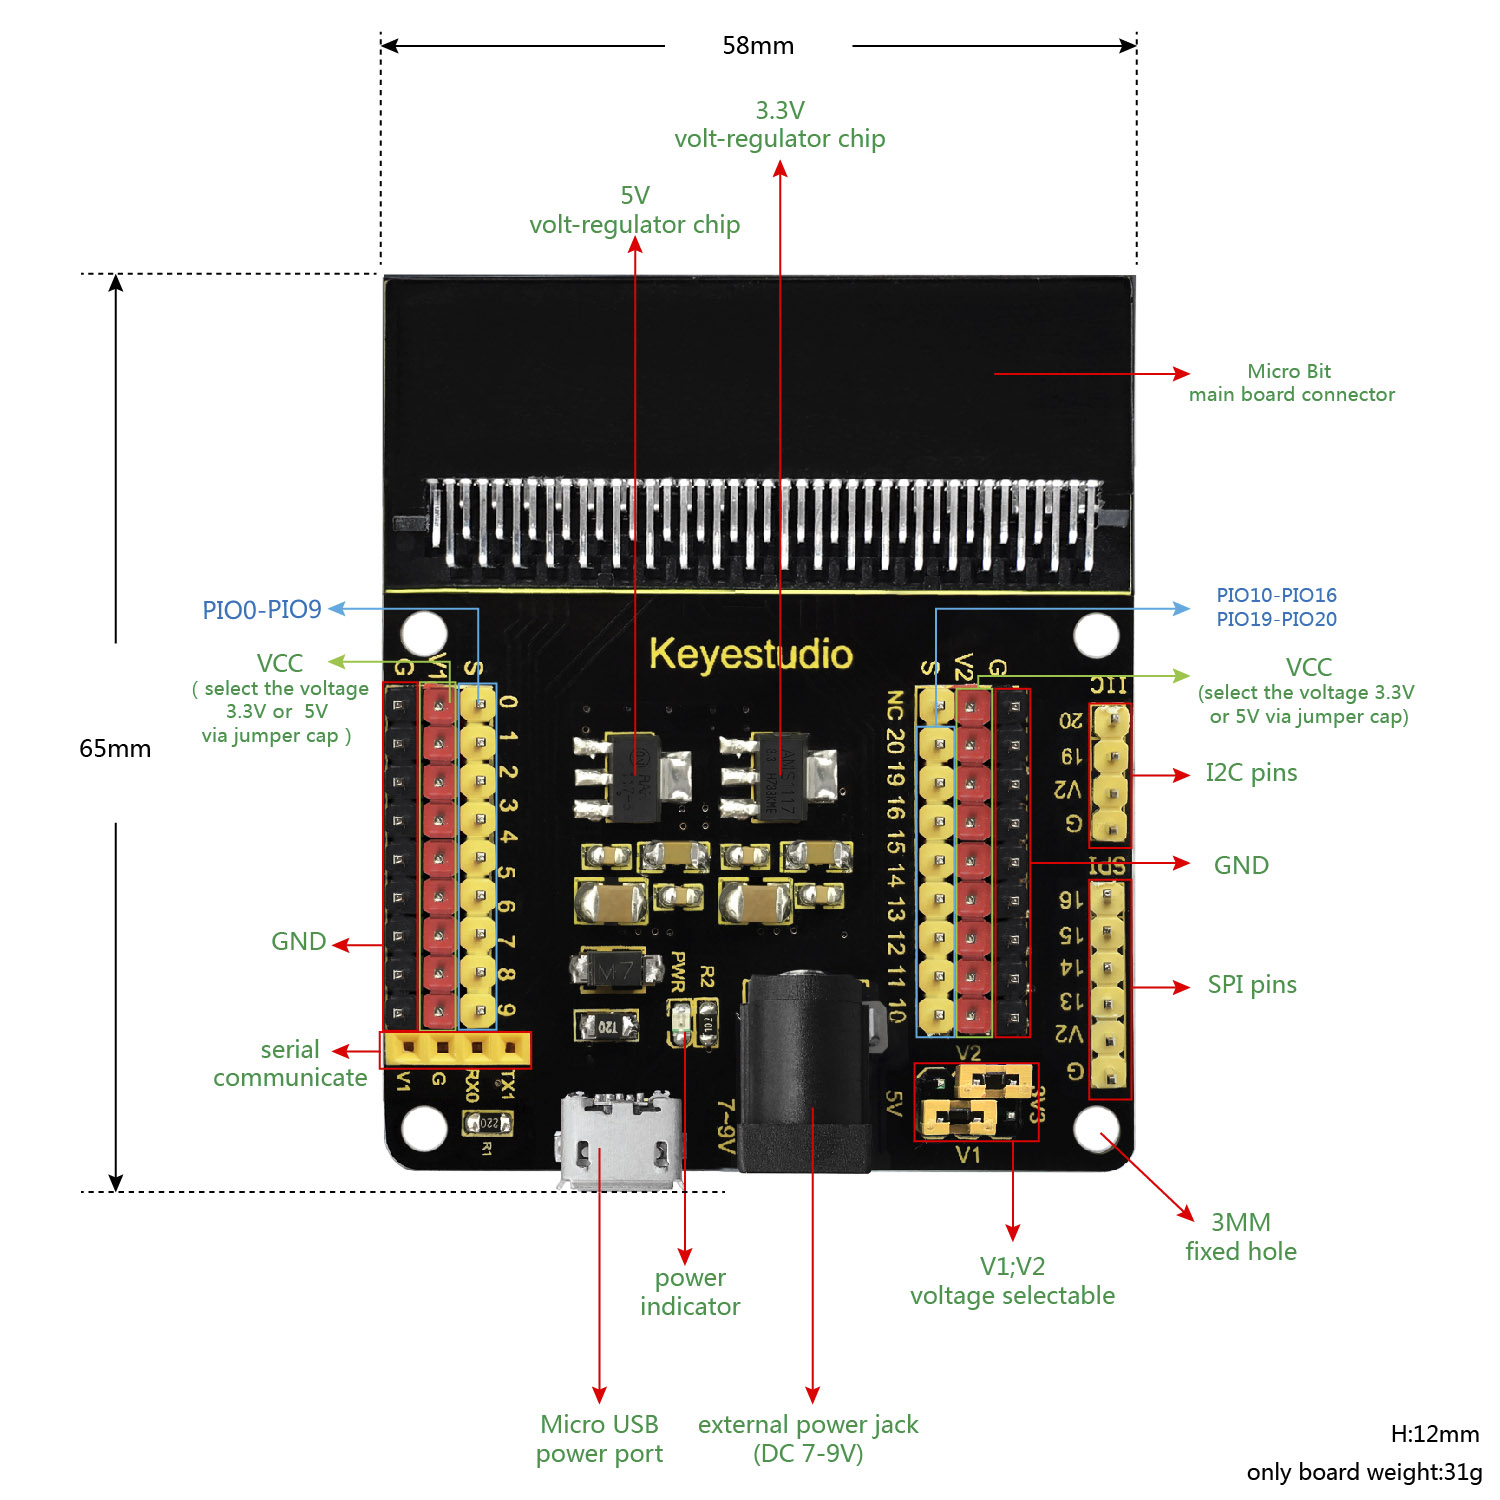
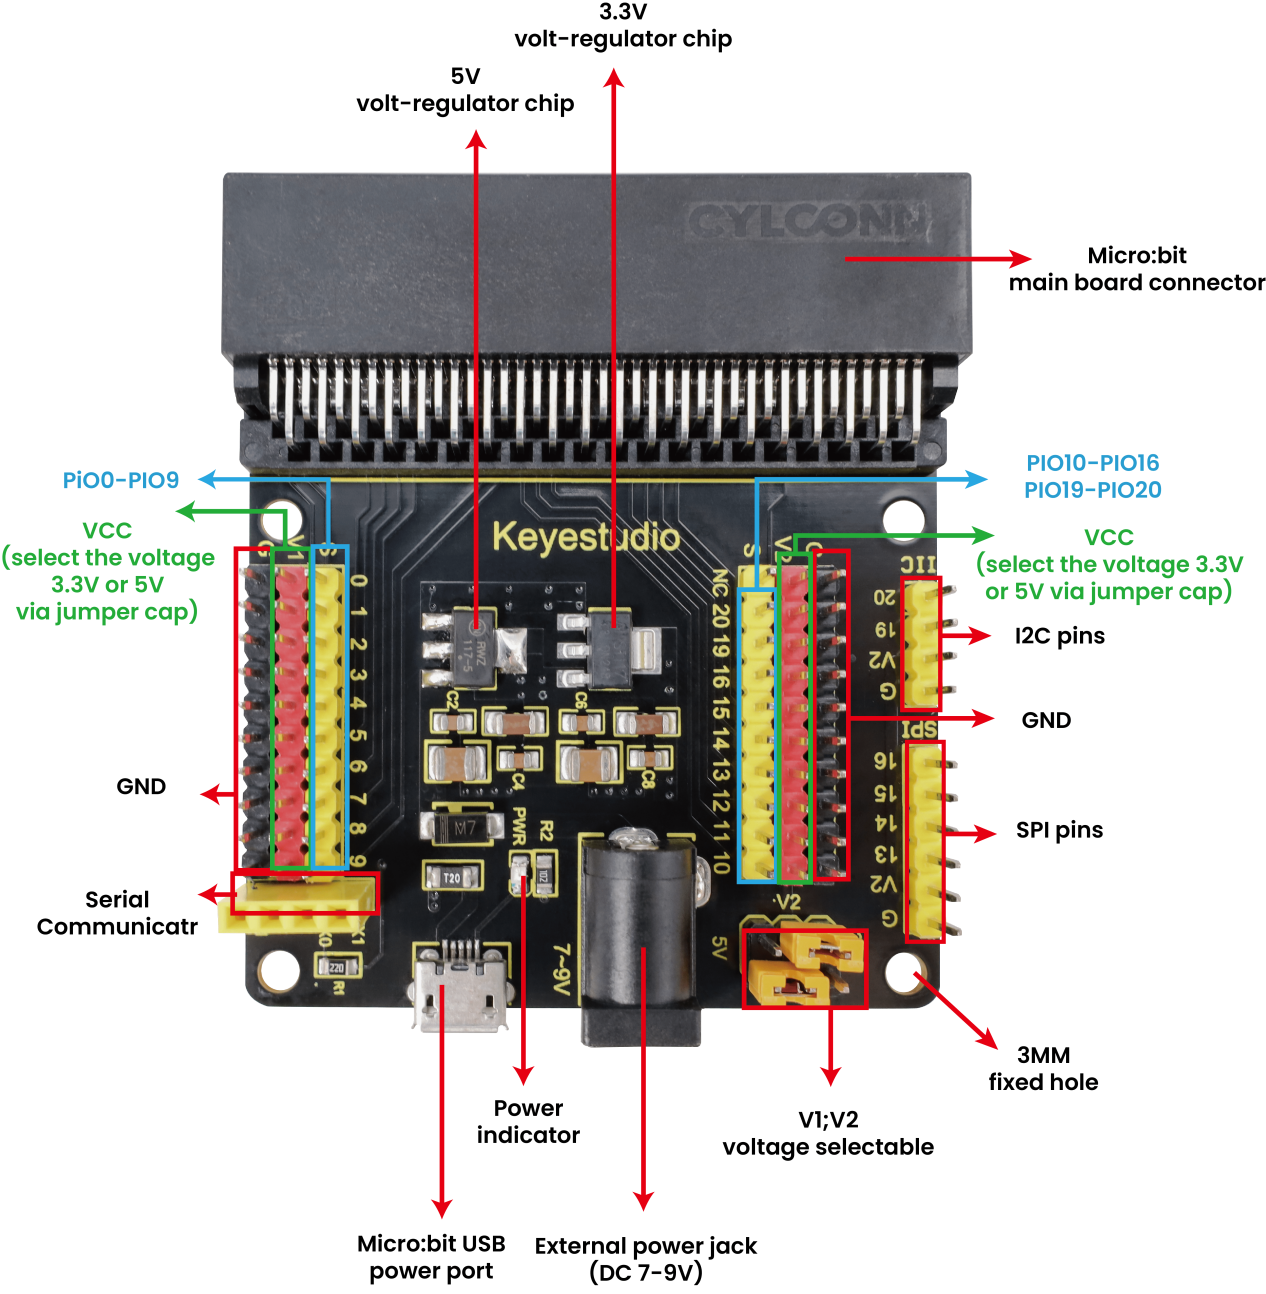
2024-12-10 11:08:47.87

diff --git a/docs/3.microbit smart home projects.md b/docs/3.microbit smart home projects.md
@@ -4,11 +4,11 @@
 
 ![top1](img/top1.png)
 
-[DOWNLOAD](../Code.zip)
+**Code download:**
+
+https://fs.keyestudio.com/KS4048-KS4049
 
 Download and unzip these files. Here all codes are in folder **Code**.
-
-For convenience, <span style="color: rgb(2, 165, 180);">we move the codes into: **D:\Code\1.Code_kidsuno**.</span> You can also choose to move it into any disks at will. 
 
 ![bottom1](img/bottom1.png)
 
@@ -47,8 +47,6 @@ Human eyes are sensitive to RGB colours. Most colours can be synthesized by RGB 
 ![line3](img/line3.png)
 
 6812 RGB LED module is common-used which includes four independent and controllable RGB beads. Through digital signals, brightness and colour of them can be adjusted to realize various light effects. In application, it is widely used to decorative lighting, electronic display and entertainment equipment. All in all, this module is easy to control but with powerful functions.
-
-In this project, we adopt 6812 RGB module to emit blue light.
 
 ![3bottom](img/3bottom.png)
 
@@ -137,7 +135,9 @@ Similarly, set all pixels to yellow, blue, purple and white with each colour for
 
 ![4top](img/4top.png)
 
-Download the code (for Windows 10 App, click to download code; for browsers, download the "hex" file and sent it to the micro: bit board) and power on via micro USB cable. The 6812 RGB module lights up in red, yellow, blue, purple and white. Each colour remains 1 second and this sequence repeats.
+Download the code (for Windows 10 App, click to download code; for browsers, download the "hex" file and sent it to the micro: bit board) and power on via micro USB cable. 
+
+The 6812 RGB module lights up in red, yellow, blue, purple and white. Each colour remains 1 second and this sequence repeats.
 
 ![4bottom](img/4bottom.png)
 
@@ -529,7 +529,9 @@ Refresh the results every 500ms.
 
 ![4top](img/4top.png)
 
-Download the code (for Windows 10 App, click to download code; for browsers, download the "hex" file and sent it to the micro: bit board) and power on via micro USB cable. The sensor detects the ambient temperature and humidity values and reveals them on the serial monitor. The results will be refreshed every 500ms.
+Download the code (for Windows 10 App, click to download code; for browsers, download the "hex" file and sent it to the micro: bit board) and power on via micro USB cable. 
+
+The sensor detects the ambient temperature and humidity values and reveals them on the serial monitor. The results will be refreshed every 500ms.
 
 ![z509](img/z509.png)
 
@@ -611,7 +613,7 @@ Download the code (for Windows 10 App, click to download code; for browsers, dow
 
 #### Project 7: 1602 LCD Display
 
-
+![](img/z700.png)
 
 ##### Introduction
 
@@ -758,6 +760,34 @@ Next, let's start the smart home installation together! Through this process, yo
 
 
 
+#### Installation/Removal of Nylon Rivet
+
+Nylon rivets can be used for fixing or as screws, and it can assemble without tools.
+
+![Nylon Rivet](img/Nylon Rivet.png)
+
+The male parts of rivets plays the role of riveting to insert into the female part for fixing.
+
+If the nylon rivets need to be disassembled after installation, they can be easily removed with tweezers.
+
+First, press the back end of the male part with a tweezers.
+
+![Nylon Rivet](img/Nylon Rivet 1.png)
+
+Or use the tail end of the tweezers to squeeze the male parts.
+
+![Nylon Rivet](img/Nylon Rivet 2.png)
+
+If the male part is loose, clamp it with the tweezers.
+
+![Nylon Rivet](img/Nylon Rivet 3.png)
+
+Finally, gently clip it out.
+
+![Nylon Rivet](img/Nylon Rivet 4.png)
+
+
+
 #### 1. Install the expansion board and temperature and humidity sensor
 
 ![99_00](img/99_00.png)
@@ -815,8 +845,6 @@ Connect the 4pin wire to the pin end of the LCD.
 ![99_14](img/99_14.png)
 
 Connect the wire to the module and pass the wire through the hole.
-
-
 
 ![99_15](img/99_15.png)
 
@@ -1080,9 +1108,7 @@ Six AA batteries are required.
 
 When putting the batteries, please pay attention to the + and - .
 
-![99_89](img/99_89.png)
-
-![99_90](img/99_90.png)
+![99_89](img/99_89.png)![99_90](img/99_90.png)
 
 After that, insert the battery holder into the house. Note the position of the wire: it is at the right side.
 
@@ -1265,7 +1291,9 @@ Touch the micro:bit logo, the LCD will clear its display and show “Close the d
 
 ![4top](img/4top.png)
 
-Download the code (for Windows 10 App, click to download code; for browsers, download the "hex" file and sent it to the micro: bit board) and power on via micro USB cable. We press buttons A and B to enter passwords which shows on the LCD. After entering, press the two buttons at the same time to verify the passwords. The door will open if the passwords are correct. Touch the logo to close the door.
+Download the code (for Windows 10 App, click to download code; for browsers, download the "hex" file and sent it to the micro: bit board) and power on via micro USB cable. 
+
+We press buttons A and B to enter passwords which shows on the LCD. After entering, press the two buttons at the same time to verify the passwords. The door will open if the passwords are correct. Touch the logo to close the door.
 
 ![4bottom](img/4bottom.png)
 
@@ -1344,7 +1372,9 @@ If no human motion is detected, the speaker remains quiet and LCD shows “All g
 
 ![4top](img/4top.png)
 
-Download the code (for Windows 10 App, click to download code; for browsers, download the "hex" file and sent it to the micro: bit board) and power on via micro USB cable. If the sensor detects a human motion, the speaker alarms and the LCD prompts “Someone！”, and RGB flashes in red. If no human motion is detected, the speaker remains quiet and LCD shows “All goes well.” with RGB off.
+Download the code (for Windows 10 App, click to download code; for browsers, download the "hex" file and sent it to the micro: bit board) and power on via micro USB cable. 
+
+If the sensor detects a human motion, the speaker alarms and the LCD prompts “Someone！”, and RGB flashes in red. If no human motion is detected, the speaker remains quiet and LCD shows “All goes well.” with RGB off.
 
 ![4bottom](img/4bottom.png)
 
@@ -1566,7 +1596,7 @@ Read the decomposition value of the accelerometer on the Y-axis. If the value is
 
 
 
-If the decomposition value in the Y-axis is within the range of 1060~1088, it indicates that the house is stable so the earthquake alarm is cancelled.
+If the decomposition value in the Y-axis is within the range of 1060~1088, it indicates that the house is stable so the earthquake alarm is canceled.
 
 ![0604](img/0604.png)
 
@@ -1612,10 +1642,6 @@ Based on an ultrasonic module, this distance detection system detects the distan
 | 1602 LCD *1          | ![KS0061](img/KS0061.png)         |
 | 3pin DuPont wire *1  | ![3pin](img/3pin.png)             |
 | 4 pin DuPont wire *1 | ![4pin](img/4pin.png)             |
-
-Before uploading code, please install the ultrasonic sensor on the wall of the home and then wire up as follows:
-
-![0807](img/0807.png)
 
 
 

diff --git a/docs/2.microbit basic projects.md b/docs/2.microbit basic projects.md
@@ -4,11 +4,11 @@
 
 ![top1](img/top1.png)
 
-[DOWNLOAD](./Code.zip)
+**Code download:** 
+
+https://fs.keyestudio.com/KS4048-KS4049
 
 Download and unzip these files. Here all codes are in folder **Code**.
-
-For convenience, <span style="color: rgb(2550, 10, 50);">we move the codes into: **D:\Code\1.Code_kidsuno**.</span> You can also choose to move it into any disks at will. 
 
 ![bottom1](img/bottom1.png)
 
@@ -46,6 +46,10 @@ Connect the board to your computer via micro USB cable.
 #### Test Code
 
 Find code blocks:
+
+In the resource file included with the tutorial, find the Project 1 code folder:
+
+![Project 1 code folder](img/Project 1 code folder.png)
 
 ① Choose an icon to show on the LED matrix.
 
@@ -457,9 +461,7 @@ Press the button A to increase the bar height, and the lighting LEDs on the matr
 
 ![3top](img/3top.png)
 
-The micro:bit main board is actually not equipped with a temperature sensor, but uses nNFR52833 chip for temperature detection. Therefore, the detected value is much closer to the temperature of the processor, so there maybe deviation from the ambient value. 
-
-Its detection range is -40 ~ 105℃.
+The micro:bit main board is actually not equipped with a temperature sensor, but uses nNFR52833 chip for temperature detection. Therefore, the detected value is much closer to the temperature of the processor, so there maybe deviation from the ambient value. Its detection range is -40 ~ 105℃.
 
 ![3bottom](img/3bottom.png)
 
@@ -598,7 +600,9 @@ For Windows 10 App, just click download. For browser, send the "hex" file to the
 
 After uploading test code to micro:bit main board and keeping the connection with the computer to power the main board. 
 
-When the ambient temperature is colder than 35℃, micro:bit LED matrix shows ![j107](img/j107.png). Press the temperature sensor on the board to let the ambient temperature reach or exceed 35℃, LED matrix shows ![j106](img/j106.png).
+When the ambient temperature is colder than 35℃, micro:bit LED matrix shows ![j107](img/j107.png). 
+
+Press the temperature sensor on the board to let the ambient temperature reach or exceed 35℃, LED matrix shows ![j106](img/j106.png).
 
 ![4bottom](img/4bottom.png)
 
@@ -897,15 +901,15 @@ Temperature: -15
 
 
 
-③
+③ obtain the value of acceleration in one of the three dimensions (mg), or the resultant force in all directions (axis x, y, and z).
+
+acceleration of the micro:bit board: how fast it accelerates or decelerates.
 
 ![j710](img/j710.png)
 
 
 
-④ obtain the value of acceleration in one of the three dimensions (mg), or the resultant force in all directions (axis x, y, and z).
-
-acceleration of the micro:bit board: how fast it accelerates or decelerates.
+④ Short pause for the milliseconds to slow down the program.
 
 ![j204](img/j204.png)
 
@@ -961,7 +965,9 @@ CoolTerm serial monitor shows the decomposition(in X axis, Y axis and Z axis res
 
 ![3top](img/3top.png)
 
-In this experiment, we will use the micro:bit board to detect light intensity. Since the micro:bit board does not contains its own photoresistor, the LED dot matrix will shoulder this job. The light signal will convert into input, and the voltage decay time is sampled so that the detected light intensity is a relative value. (Note: Output the light brightness level to the serial port, and the output is a relative value.)
+In this experiment, we will use the micro:bit board to detect light intensity. Since the micro:bit board does not contains its own photoresistor, the LED dot matrix will shoulder this job. The light signal will convert into input, and the voltage decay time is sampled so that the detected light intensity is a relative value. 
+
+(Note: Output the light brightness level to the serial port, and the output is a relative value.)
 
 ![3bottom](img/3bottom.png)
 
@@ -1149,7 +1155,7 @@ After uploading the code powering on,  the micro:bit speaker makes sounds and th
 
 Find code blocks:
 
-① end the game and display the score.
+① Display the selected icon on the LED matrix.
 
 ![j102](img/j102.png)
 
@@ -1764,6 +1770,8 @@ We will demonstrate on Apple system devices. Android devices may take these as a
    Download the corresponding micro:bit firmware based on your micro:bit board version.
 
 ![j1402](img/j1402.png)
+
+Or find the firmware we provided in the file ![resources](img/resources.png): ![firmware](img/firmware.png)
 
 upload the downloaded firmware to the Micro: Bit main board.
 

diff --git a/docs/1.microbit board introduction.md b/docs/1.microbit board introduction.md
@@ -139,9 +139,13 @@ Here we demonstrate on Google Chrome.
 
 ![k3104](img/k3104.png)
 
-Write a micro:bit code. 
+Write a micro:bit code. You can drag some Blocks to the editing area and then run your program in Simulator as shown below. We demonstrate how to edit heartbeat program. 
 
-Drag some Blocks to the editing area and then run your program in Simulator as shown below. We demonstrate how to edit heartbeat program. 
+Video in:
+
+![video](img/video.png)
+
+The next section further introduces the Makecode.
 
 ![k3105](img/k3105.png)
 

diff --git a/docs/index.md b/docs/index.md
@@ -113,7 +113,7 @@ Designed for five or six years old, this kit not only provides a safe and fun le
 
 ## Expansion Board
 
-
+![Expansion Board](img/Expansion Board.png)
 
 ### Description
 
